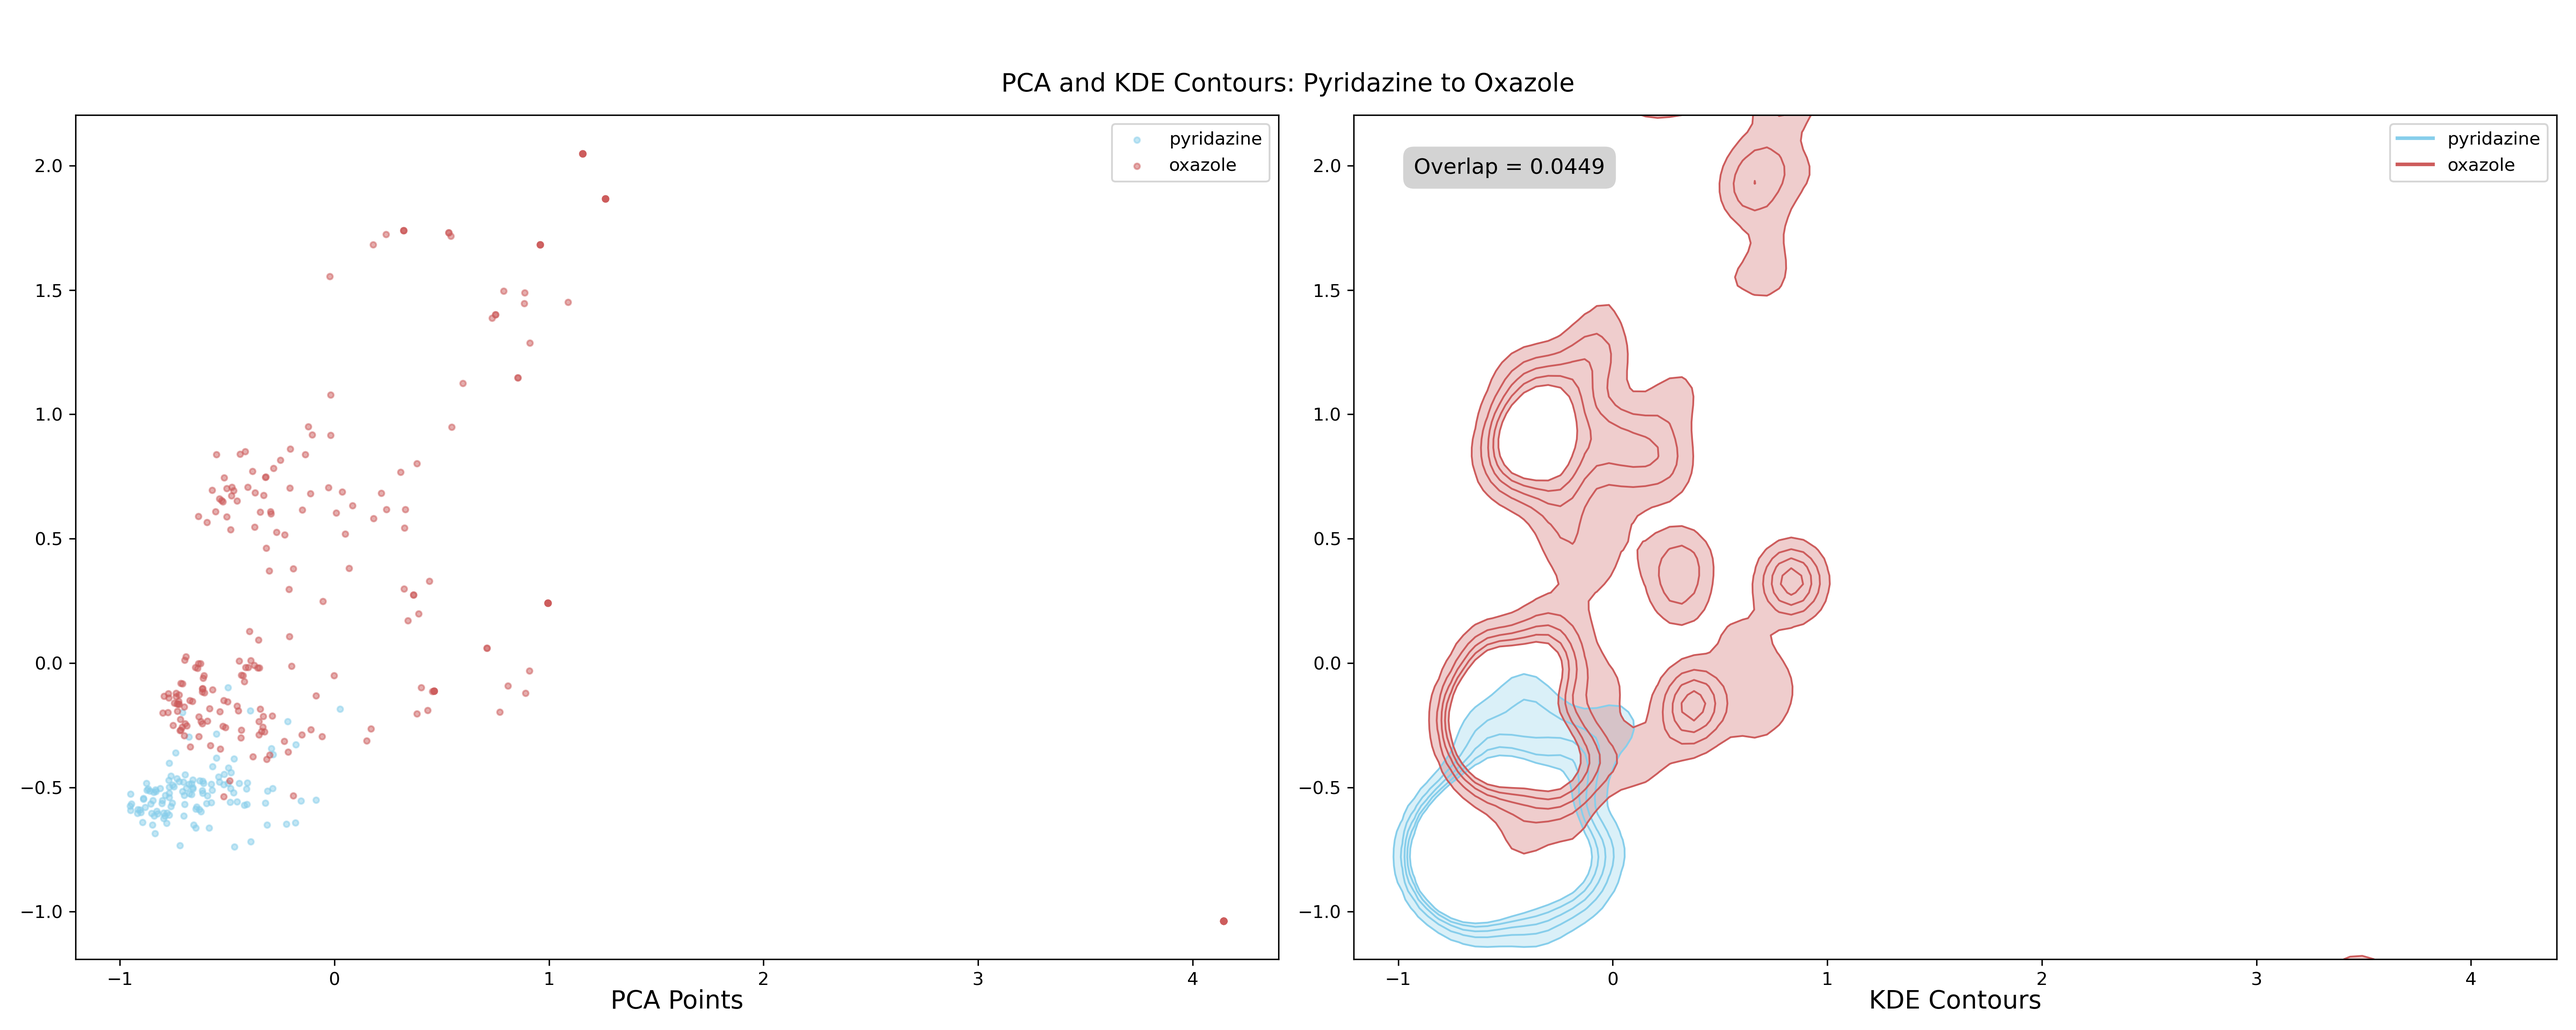
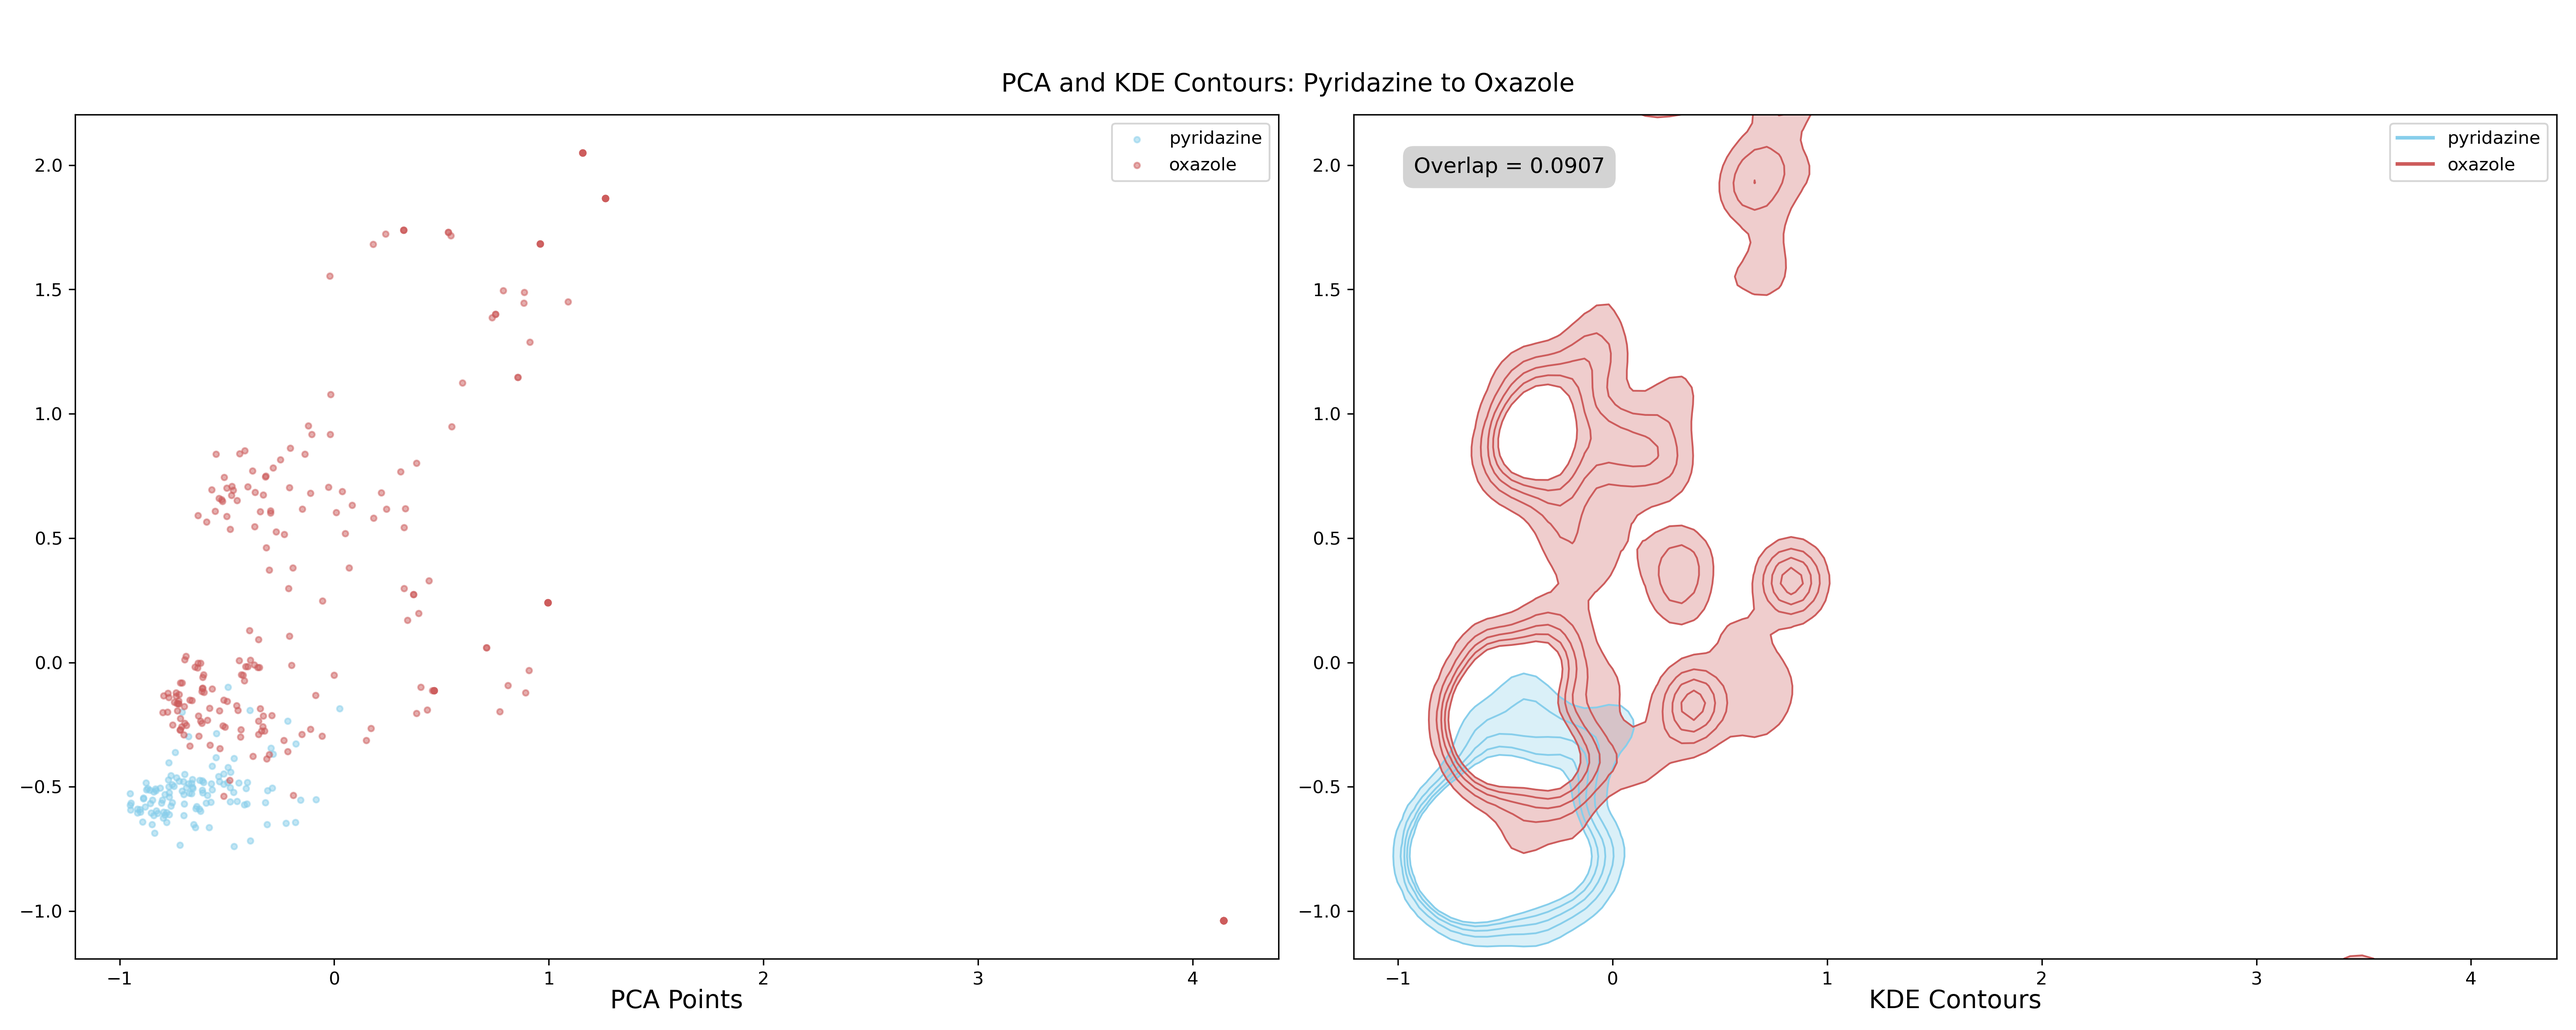
added plots for overlap

diff --git a/overlap/overlap_kde.py b/overlap/overlap_kde.py
@@ -1,0 +1,276 @@
+import numpy as np
+from rdkit import Chem
+from rdkit.Chem import AllChem
+from rdkit.Chem import DataStructs
+from sklearn.decomposition import PCA
+from sklearn.neighbors import KernelDensity
+from sklearn.model_selection import GridSearchCV
+import matplotlib.pyplot as plt
+from sklearn.preprocessing import StandardScaler
+import csv
+import os
+from matplotlib.lines import Line2D
+from scipy.integrate import simps
+import pandas as pd
+
+# cleans up the console output
+import warnings
+warnings.filterwarnings("ignore")
+
+# changes the working directory to the directory this script is located in
+os.chdir(os.path.dirname(os.path.abspath(__file__)))
+
+
+# grabs SMILES codes from CSVs of SMs & PDTs
+def extract_smiles_from_csv(file_path):
+    smiles_list = []
+    
+    # Open the CSV file
+    with open(file_path, newline='') as csvfile:
+        reader = csv.DictReader(csvfile)
+        
+        # Extract the 'SMILES' column
+        for row in reader:
+            smiles_list.append(row['SMILES'])
+    
+    return smiles_list
+
+
+# grabs a file as a list
+def load_file_as_list(filename):
+    with open(filename, 'r') as file:
+        all_lines = file.readlines()
+        all_lines = [line.strip() for line in all_lines]
+
+        lines = []
+        for line in all_lines:
+            if line == None:
+                continue
+            else:
+                lines.append(line)
+
+    return lines
+
+
+# Function to find the optimal bandwidth for KDE using GridSearchCV
+def find_optimal_bandwidth(points):
+    params = {'bandwidth': np.logspace(-1, 1, 20)}  # Search between 0.1 and 10
+    grid = GridSearchCV(KernelDensity(kernel='gaussian'), params, cv=5)  # 5-fold cross-validation
+    grid.fit(points)
+    
+    best_bandwidth = grid.best_params_['bandwidth']
+    return best_bandwidth
+
+
+# Function to compute Morgan fingerprints for a list of SMILES strings
+def compute_fingerprints(smiles_list, radius=2, n_bits=2048):
+    fingerprints = []
+    for smiles in smiles_list:
+        mol = Chem.MolFromSmiles(smiles)
+        if mol is not None:
+            fp = AllChem.GetMorganFingerprintAsBitVect(mol, radius, nBits=n_bits)
+            fingerprints.append(fp)
+        else:
+            fingerprints.append(None)  # Handle invalid SMILES gracefully
+    return fingerprints
+
+
+# Function to compute Tanimoto similarity matrix from fingerprints
+def tanimoto_similarity_matrix(fingerprints):
+    num_fps = len(fingerprints)
+    similarity_matrix = np.zeros((num_fps, num_fps))
+    
+    for i in range(num_fps):
+        for j in range(i + 1, num_fps):
+            if fingerprints[i] is not None and fingerprints[j] is not None:
+                similarity = DataStructs.TanimotoSimilarity(fingerprints[i], fingerprints[j])
+                similarity_matrix[i, j] = similarity
+                similarity_matrix[j, i] = similarity
+            else:
+                similarity_matrix[i, j] = 0.0
+                similarity_matrix[j, i] = 0.0
+
+    np.fill_diagonal(similarity_matrix, 1.0)  # Diagonal elements should be 1 (self-similarity)
+    return similarity_matrix
+
+
+# Function to perform PCA
+def apply_pca(similarity_matrix, n_components=2):
+    pca = PCA(n_components=n_components)
+    pca_result = pca.fit_transform(similarity_matrix)
+    return pca_result
+
+
+# Function to plot PCA points on the left subplot
+def plot_pca_points(ax, points1, points2, color1, color2, label1, label2):
+    ax.scatter(points1[:, 0], points1[:, 1], color=color1, s=10, marker='o', alpha=0.5, label=label1)
+    ax.scatter(points2[:, 0], points2[:, 1], color=color2, s=10, marker='o', alpha=0.5, label=label2)
+    
+    # sets tick marks & labels
+    plt.tick_params(axis='both', which='both', 
+                    bottom=True, top=False, left=True, right=False)
+    
+    ax.legend()
+    
+    # Add title below the plot
+    ax.text(0.5, -0.05, 'PCA Points', ha='center', va='center', transform=ax.transAxes, fontsize=14, bbox=None)
+    
+    # Return axis limits for consistent scaling
+    return ax.get_xlim(), ax.get_ylim()
+
+
+# Function to plot KDE contours on the right subplot with optimal bandwidth
+def plot_kde_contours(ax, points1, points2, color1, color2, label1, label2, xlim, ylim):
+    # Standardize the data together
+    scaler = StandardScaler()
+    combined_points = np.vstack((points1, points2))  # Combine both point sets
+    combined_points = scaler.fit_transform(combined_points)
+    
+    # Split the scaled data back
+    points1_scaled = combined_points[:len(points1), :]
+    points2_scaled = combined_points[len(points1):, :]
+    
+    # Find optimal bandwidth for each dataset
+    bandwidth1 = find_optimal_bandwidth(points1_scaled)
+    print(f"Plotting KDE for {label1} with bandwidth {bandwidth1}")
+    bandwidth2 = find_optimal_bandwidth(points2_scaled)
+    print(f"Plotting KDE for {label2} with bandwidth {bandwidth2}")
+    
+    # Compute KDE for points1 with optimal bandwidth
+    kde1 = KernelDensity(kernel='gaussian', bandwidth=bandwidth1).fit(points1_scaled)
+    x, y = np.linspace(xlim[0], xlim[1], 100), np.linspace(ylim[0], ylim[1], 100)
+    X, Y = np.meshgrid(x, y)
+    xy = np.vstack([X.ravel(), Y.ravel()]).T
+    Z1 = np.exp(kde1.score_samples(xy)).reshape(X.shape)
+    
+    # Compute KDE for points2 with optimal bandwidth
+    kde2 = KernelDensity(kernel='gaussian', bandwidth=bandwidth2).fit(points2_scaled)
+    Z2 = np.exp(kde2.score_samples(xy)).reshape(X.shape)
+    
+    # Plot KDE contours
+    ax.contourf(X, Y, Z1, levels=[0.1, 0.2, 0.3, 0.4, 0.5], colors=[color1], alpha=0.3)
+    ax.contour(X, Y, Z1, levels=[0.1, 0.2, 0.3, 0.4, 0.5], colors=[color1], linewidths=1, label=label1)
+    ax.contourf(X, Y, Z2, levels=[0.1, 0.2, 0.3, 0.4, 0.5], colors=[color2], alpha=0.3)
+    ax.contour(X, Y, Z2, levels=[0.1, 0.2, 0.3, 0.4, 0.5], colors=[color2], linewidths=1, label=label2)
+    
+    # Use the same axis limits as PCA plot
+    ax.set_xlim(xlim)
+    ax.set_ylim(ylim)
+    
+    # Create custom legend handles
+    legend_handles = [
+        Line2D([0], [0], color='skyblue', lw=2, label=label1),
+        Line2D([0], [0], color='indianred', lw=2, label=label2)]
+    ax.legend(handles=legend_handles)
+    
+    # Add title below the plot
+    ax.text(0.5, -0.05, 'KDE Contours', ha='center', va='center', transform=ax.transAxes, fontsize=14, bbox=None)
+
+
+# Function to compute KDE overlap with optimal bandwidth selection
+def compute_kde_overlap(points1, points2, grid_size=100):
+    # Standardize the data
+    scaler = StandardScaler()
+    points1 = scaler.fit_transform(points1)
+    points2 = scaler.transform(points2)
+    
+    # Find optimal bandwidth for each set of points
+    bandwidth1 = find_optimal_bandwidth(points1)
+    print(f"Computing KDE for the first dataset with bandwidth: {bandwidth1}")
+    bandwidth2 = find_optimal_bandwidth(points2)
+    print(f"Computing KDE for the second dataset with bandwidth: {bandwidth2}")
+
+    
+    # Compute KDE with optimal bandwidth
+    kde1 = KernelDensity(kernel='gaussian', bandwidth=bandwidth1).fit(points1)
+    kde2 = KernelDensity(kernel='gaussian', bandwidth=bandwidth2).fit(points2)
+    
+    # Create a grid
+    x = np.linspace(points1[:, 0].min() - 1, points1[:, 0].max() + 1, grid_size)
+    y = np.linspace(points1[:, 1].min() - 1, points1[:, 1].max() + 1, grid_size)
+    X, Y = np.meshgrid(x, y)
+    xy = np.vstack([X.ravel(), Y.ravel()]).T
+    
+    # Compute KDE scores
+    Z1 = np.exp(kde1.score_samples(xy)).reshape(X.shape)
+    Z2 = np.exp(kde2.score_samples(xy)).reshape(X.shape)
+    
+    # Compute overlap area using Jaccard index
+    overlap_area = np.sum(np.minimum(Z1, Z2)) * (x[1] - x[0]) * (y[1] - y[0])
+    union_area = np.sum(np.maximum(Z1, Z2)) * (x[1] - x[0]) * (y[1] - y[0])
+    jaccard_index = overlap_area / union_area
+    
+    return jaccard_index
+
+
+# Function to process two SMILES lists and plot their PCA points and KDE contours
+def smiles_to_combined_kde(smiles_list1, smiles_list2, library1, library2):
+    # Step 1: Compute fingerprints for both lists
+    fingerprints1 = compute_fingerprints(smiles_list1)
+    fingerprints2 = compute_fingerprints(smiles_list2)
+    
+    # Step 2: Combine fingerprints
+    combined_fingerprints = fingerprints1 + fingerprints2
+    
+    # Step 3: Compute Tanimoto similarity matrix
+    similarity_matrix = tanimoto_similarity_matrix(combined_fingerprints)
+    
+    # Step 4: Apply PCA
+    pca_result = apply_pca(similarity_matrix)
+    
+    # Step 5: Split the PCA results back into the two groups
+    pca_result1 = pca_result[:len(smiles_list1), :]
+    pca_result2 = pca_result[len(smiles_list1):, :]
+    
+    # Step 6: Compute KDE overlap
+    overlap = compute_kde_overlap(pca_result1, pca_result2)
+    
+    # Create subplots: one for PCA points, one for KDE contours
+    fig, (ax1, ax2) = plt.subplots(1, 2, figsize=(20, 8))
+    
+    # Plot PCA points and retrieve axis limits
+    xlim, ylim = plot_pca_points(ax1, pca_result1, pca_result2, 'skyblue', 'indianred', f'{library1}', f'{library2}')
+    
+    # Plot KDE contours using the same axis limits
+    plot_kde_contours(ax2, pca_result1, pca_result2, 'skyblue', 'indianred', library1, library2, xlim, ylim)
+    
+    # Add overlap text to the KDE plot
+    ax2.text(0.05, 0.95, f'Overlap = {overlap:.4f}', transform=ax2.transAxes,
+             fontsize=12, verticalalignment='top', bbox=dict(boxstyle='round,pad=0.5', edgecolor='none', facecolor='lightgrey'))
+    
+    # Capitalize library names and add title
+    library1 = library1.capitalize()
+    library2 = library2.capitalize()
+    
+    plt.suptitle(f'PCA and KDE Contours: {library1} to {library2}', y=0.93, fontsize=14)
+    plt.tight_layout(rect=[0, 0, 1, 0.95])
+    
+    plt.savefig(f'../overlap/plots/{library1}2{library2}.png', dpi=300)
+    plt.close()  # Close the figure to avoid overlapping plots
+    
+    return overlap
+
+
+# Initialize a DataFrame to store overlap values
+libraries = load_file_as_list('libraries.txt')
+overlap_df = pd.DataFrame(index=libraries, columns=libraries)
+
+# Calculate overlaps and fill DataFrame
+for library1 in libraries:
+    # Load SMILES codes for the first library
+    file_path1 = f'../working_scripts/frameworks/library_{library1}.csv'
+    smiles_list1 = extract_smiles_from_csv(file_path1)
+    
+    for library2 in libraries:
+        if library1 == library2:
+            continue
+        
+        file_path2 = f'../working_scripts/products/{library1}_{library1}2{library2}.csv'
+        smiles_list2 = extract_smiles_from_csv(file_path2)
+    
+        # Calculate overlap and store in DataFrame
+        overlap = smiles_to_combined_kde(smiles_list1, smiles_list2, library1, library2)
+        overlap_df.loc[library1, library2] = overlap
+
+# Save overlap DF to a CSV file
+overlap_df.to_csv('kde_overlap_values.csv')
